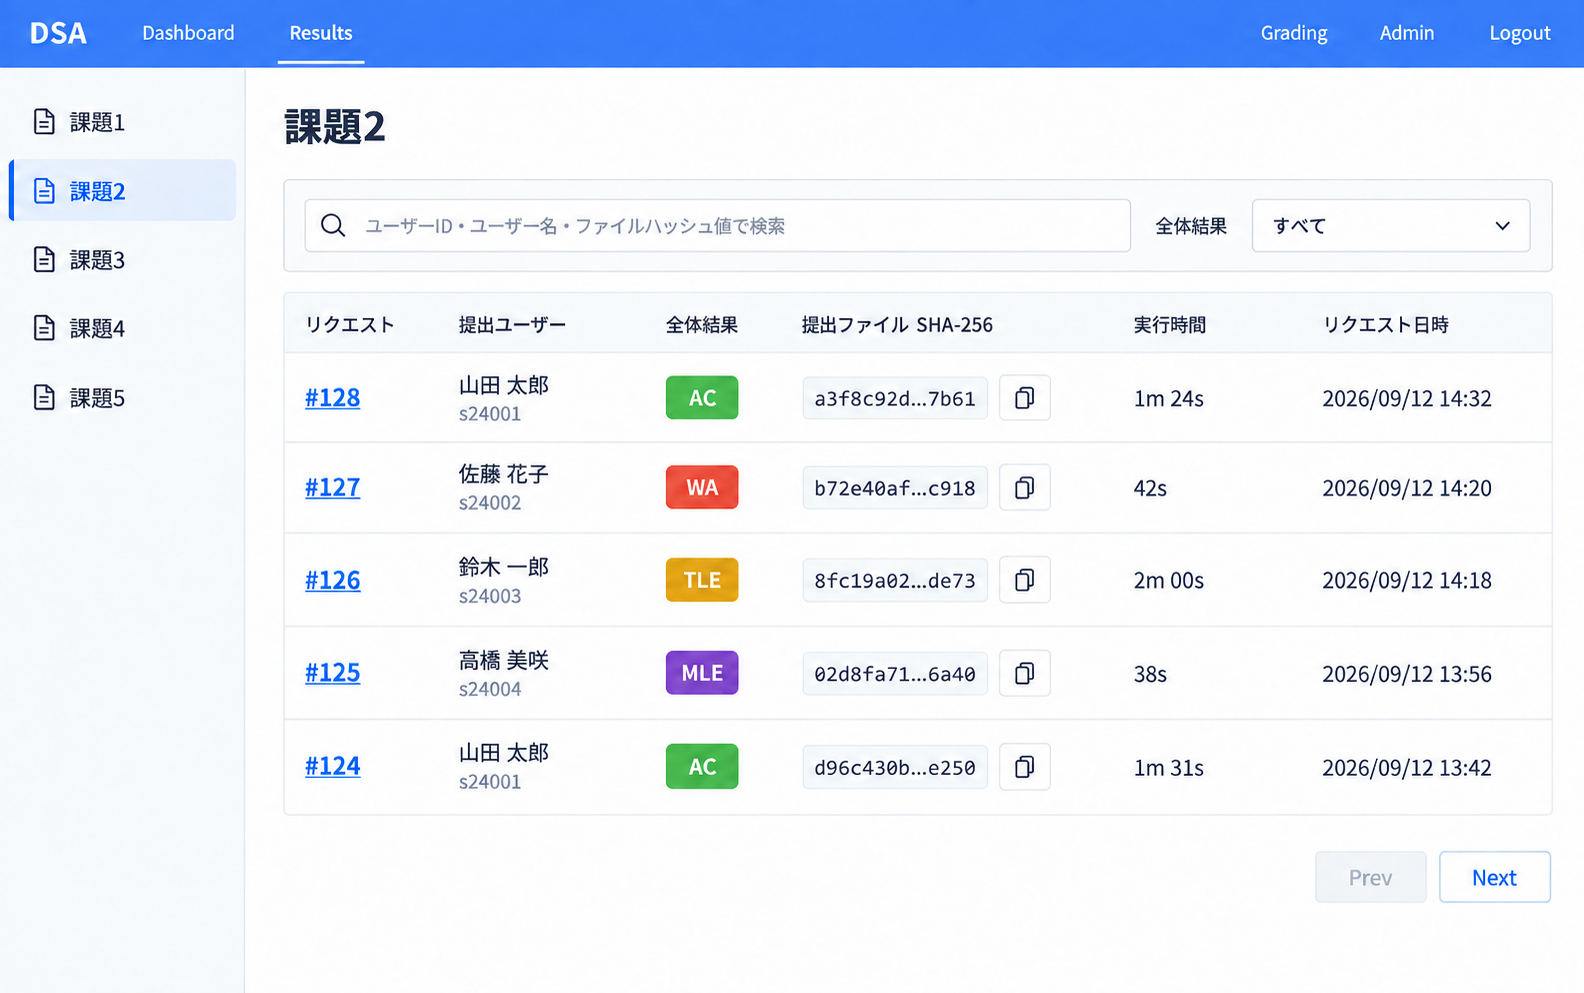
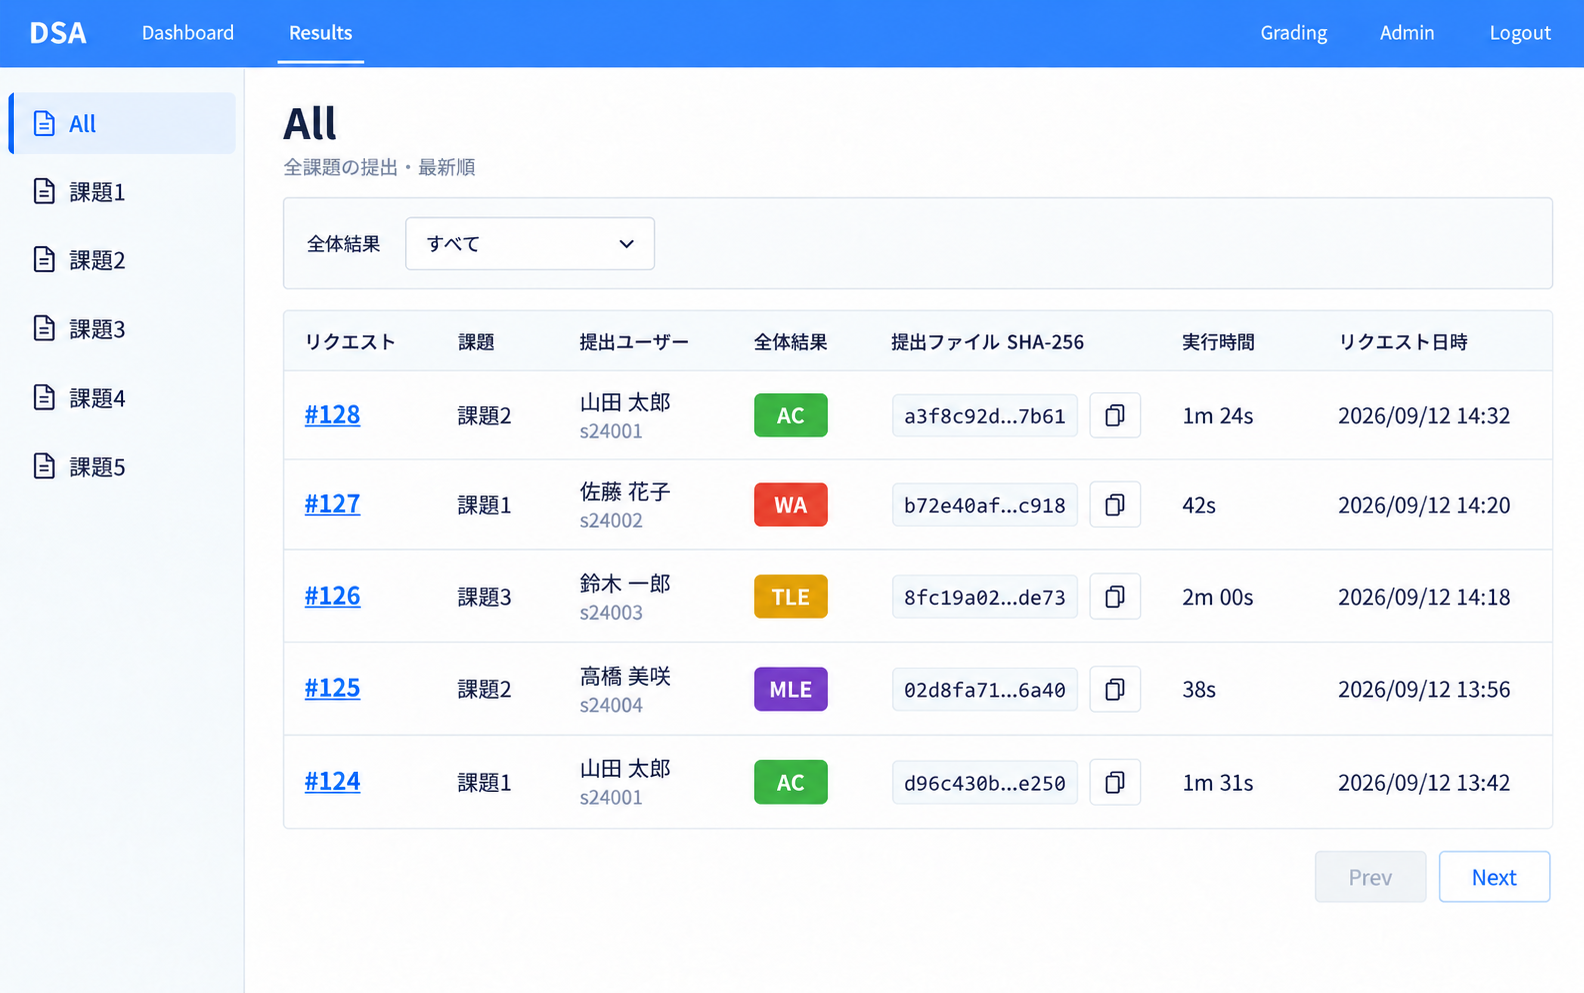
refine UI

diff --git a/docs/design/validation-results/prompts.md b/docs/design/validation-results/prompts.md
@@ -1,5 +1,22 @@
-# Results v3
+# Results v4
 
 Tool: built-in image_gen
 
-Edit the supplied UI mockup with exactly one localized navigation change. Remove the entire 'Validation Results' topbar menu item and its underline. Keep the existing 'Results' item and make it active with bold white text and a short white underline directly below Results. Topbar left items must be exactly DSA, Dashboard, Results; right items remain Grading, Admin, Logout. Preserve every other element, all table data, Japanese text, search, badges, sidebar, pagination, colors, spacing, dimensions and layout unchanged. The deleted menu area becomes uninterrupted blue topbar background. No other changes.
+## 画面の変更
+
+- ユーザー ID・ユーザー名・ファイルハッシュの検索欄を削除し、「全体結果」のフィルターを残す。
+- サイドバーの課題一覧の先頭に「All」を追加する。選択すると全課題の Validation Request を最新順で表示する。
+- 画像は All 選択時の状態。一覧に「課題」列を追加し、各 Request の対象 Project を示す。
+- 個別の課題を選択すると、その Project の結果一覧を表示する。
+
+## Edit prompt
+
+Use case: precise-object-edit
+Asset type: Japanese desktop web UI mockup, Validation Results.
+Input image: edit target docs/design/validation-results/default.png.
+Edit the supplied mockup, preserving its blue topbar, white/light-gray surfaces, typography, crisp Japanese labels, table styling, and overall desktop layout. Make these changes:
+1. Completely remove the search input, magnifying glass icon, and placeholder 「ユーザーID・ユーザー名・ファイルハッシュ値で検索」. Retain only the 「全体結果」 dropdown with selected value 「すべて」, aligned at the left of the filter bar.
+2. Insert an "All" navigation item above 課題1 in the left sidebar. Select All with the existing pale blue background, blue text, and blue left indicator; 課題2 is now unselected. Keep 課題1 through 課題5 below All.
+3. Main heading is "All" instead of 課題2, with small secondary text 「全課題の提出・最新順」 below it.
+4. This shows Validation Request results across all Projects, newest first. Add a compact 「課題」 table column immediately after 「リクエスト」. For request rows #128, #127, #126, #125, #124 set the project names respectively 課題2, 課題1, 課題3, 課題2, 課題1. Retain all existing other table columns and row values, including users, statuses AC/WA/TLE/MLE/AC, hashes with copy icons, durations and descending timestamps. Adjust column widths to fit all seven columns cleanly without clipping, overlaps, or missing information.
+Keep topbar exactly DSA, Dashboard, Results (active) on left and Grading, Admin, Logout on right. Keep Prev disabled and Next enabled at bottom right. No search control anywhere. Preserve the image aspect ratio and polished original visual style. No extra controls.
